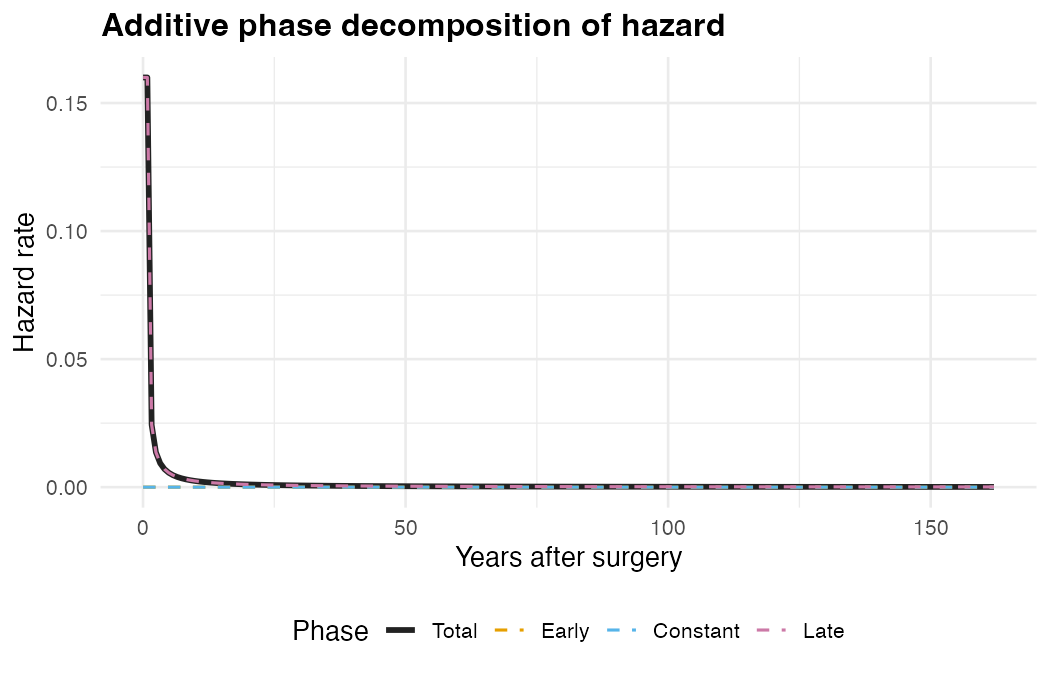
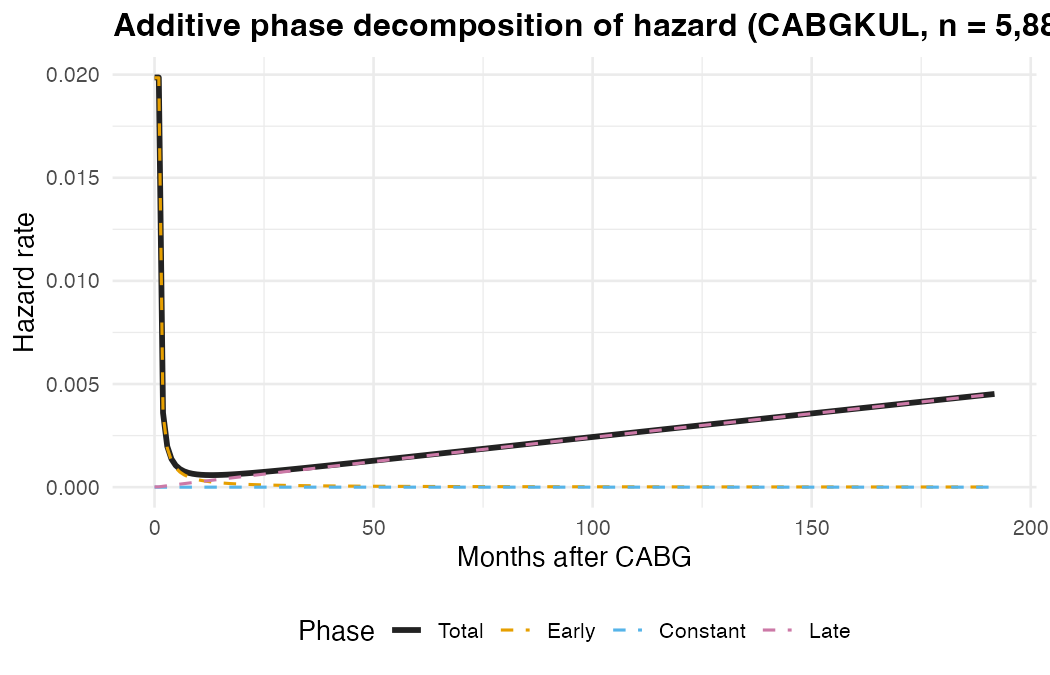
Update R-CMD-check workflow and improve README with CABGKUL dataset references

diff --git a/README.md b/README.md
@@ -1,7 +1,7 @@
 # TemporalHazard
 
 <!-- badges: start -->
-[![version](https://img.shields.io/badge/version-0.9.0-blue.svg)](https://github.com/ehrlinger/temporal_hazard)
+[![version](https://img.shields.io/badge/version-0.9.1-blue.svg)](https://github.com/ehrlinger/temporal_hazard)
 [![R-CMD-check](https://github.com/ehrlinger/temporal_hazard/actions/workflows/R-CMD-check.yaml/badge.svg)](https://github.com/ehrlinger/temporal_hazard/actions/workflows/R-CMD-check.yaml)
 [![Codecov test coverage](https://codecov.io/gh/ehrlinger/temporal_hazard/branch/main/graph/badge.svg)](https://app.codecov.io/gh/ehrlinger/temporal_hazard?branch=main)
 [![pkgdown site](https://img.shields.io/badge/docs-pkgdown-blue)](https://ehrlinger.github.io/temporal_hazard/)
@@ -23,13 +23,13 @@ rate (constant phase), and eventually rises again as patients age (late phase).
 A single Weibull curve forces a monotone shape; a multiphase model captures all
 three regimes simultaneously.
 
-<img src="man/figures/readme-hazard-phases.png" width="100%" alt="Additive phase decomposition showing early, constant, and late hazard components summing to the total hazard curve" />
+<img src="man/figures/readme-hazard-phases.png" width="100%" alt="Additive phase decomposition showing early, constant, and late hazard components summing to the total hazard curve (CABGKUL, n=5,880)" />
 
 The resulting survival curve closely tracks the nonparametric Kaplan-Meier estimate
 while providing a smooth, parametric representation that supports covariate
 adjustment, prediction, and extrapolation.
 
-<img src="man/figures/readme-survival.png" width="100%" alt="Multiphase parametric survival curve overlaid on the Kaplan-Meier estimate from the AVC dataset" />
+<img src="man/figures/readme-survival.png" width="100%" alt="Multiphase parametric survival curve overlaid on the Kaplan-Meier estimate from the CABGKUL dataset (n=5,880)" />
 
 ## Quick start
 
@@ -42,24 +42,26 @@ remotes::install_github("ehrlinger/temporal_hazard")
 
 ```r
 library(TemporalHazard)
+data(cabgkul)
 
+# Intercept-only Weibull on 5,880 CABG patients
 fit <- hazard(
-  survival::Surv(time, status) ~ age + nyha,
-  data  = dat,
+  survival::Surv(int_dead, dead) ~ 1,
+  data  = cabgkul,
   dist  = "weibull",
-  theta = c(mu = 0.25, nu = 1.1, beta1 = 0, beta2 = 0),
+  theta = c(mu = 0.10, nu = 1.0),
   fit   = TRUE
 )
 summary(fit)
-predict(fit, newdata = new_patients, type = "survival")
 ```
 
 ### Multiphase model
 
 ```r
+# Three-phase additive hazard decomposition
 fit_mp <- hazard(
   survival::Surv(int_dead, dead) ~ 1,
-  data   = avc,
+  data   = cabgkul,
   dist   = "multiphase",
   phases = list(
     early    = hzr_phase("cdf",      t_half = 0.5, nu = 1, m = 1),
@@ -71,20 +73,25 @@ fit_mp <- hazard(
 summary(fit_mp)
 
 # Per-phase decomposition of cumulative hazard
-predict(fit_mp, newdata = grid, type = "cumulative_hazard", decompose = TRUE)
+t_grid <- seq(0.01, max(cabgkul$int_dead) * 0.9, length.out = 200)
+predict(fit_mp, newdata = data.frame(time = t_grid),
+        type = "cumulative_hazard", decompose = TRUE)
 ```
 
 Each phase is specified with `hzr_phase()`, which sets the temporal shape
 type and starting values. The optimizer estimates both the phase-specific
-scale parameters and shape parameters jointly.
+scale parameters and shape parameters jointly. Covariates are supported via
+the formula interface (see `vignette("fitting-hazard-models")`).
 
 ## Documentation
 
-- **[Getting Started](https://ehrlinger.github.io/temporal_hazard/articles/getting-started.html)** --- single-phase and multiphase fit-predict workflows with visualizations.
+- **[Getting Started](https://ehrlinger.github.io/temporal_hazard/articles/getting-started.html)** --- first fit-predict workflow with visualizations.
+- **[Fitting Hazard Models](https://ehrlinger.github.io/temporal_hazard/articles/fitting-hazard-models.html)** --- intercept-only through multiphase and multi-endpoint models.
+- **[Prediction & Visualization](https://ehrlinger.github.io/temporal_hazard/articles/prediction-visualization.html)** --- survival curves, decomposed hazard, patient-specific risk profiles.
+- **[Inference & Diagnostics](https://ehrlinger.github.io/temporal_hazard/articles/inference-diagnostics.html)** --- bootstrap CIs, decile-of-risk validation, sensitivity analysis.
 - **[Mathematical Foundations](https://ehrlinger.github.io/temporal_hazard/articles/mf-mathematical-foundations.html)** --- the generalized decomposition, additive hazard model, censoring likelihood, and time-varying covariates.
 - **[Package Architecture](https://ehrlinger.github.io/temporal_hazard/articles/ar-architecture.html)** --- internal design, golden fixtures, and dataset catalog.
 - **[SAS-to-R Migration](https://ehrlinger.github.io/temporal_hazard/articles/sas-to-r-migration.html)** --- statement-by-statement mapping from SAS HAZARD syntax.
-- **[Example vignettes](https://ehrlinger.github.io/temporal_hazard/articles/)** --- exploratory, actuarial, estimation, multivariable, prediction, bootstrap, and sensitivity workflows.
 
 ## Development
 
